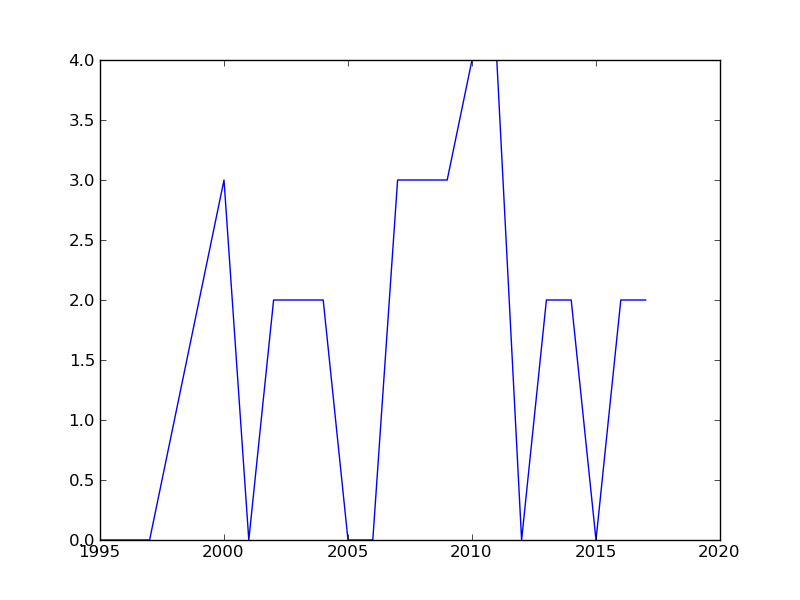
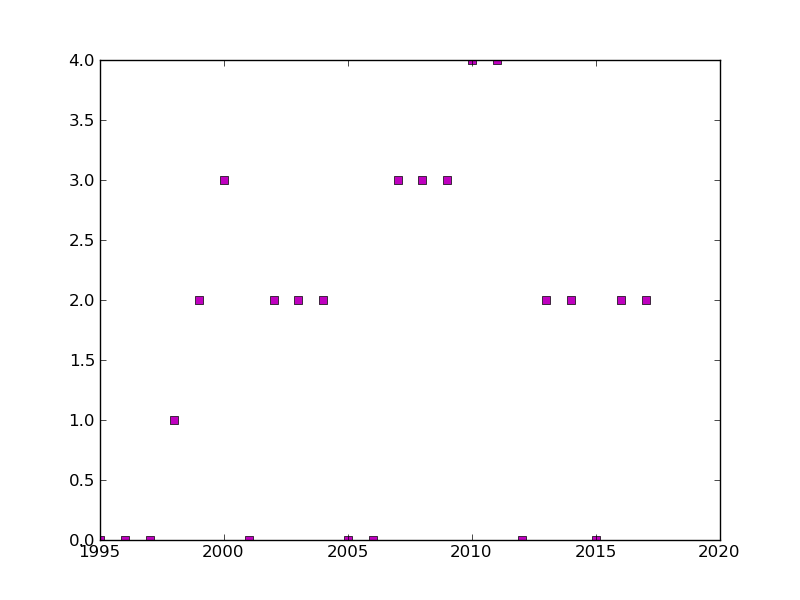
Add files via upload
dispersion

diff --git a/clase01.py b/clase01.py
@@ -2,6 +2,6 @@ import numpy as np
 import pylab as pl
 x = [1995,1996,1997,1998,1999,2000,2001,2002,2003,2004,2005,2006,2007,2008,2009,2010,2011,2012,2013,2014,2015,2016,2017]
 y = [0,0,0,1,2,3,0,2,2,2,0,0,3,3,3,4,4,0,2,2,0,2,2]
-pl.plot(x,y)
+pl.plot(x,y, 'ms')
 pl.savefig('temp2.png')
 
